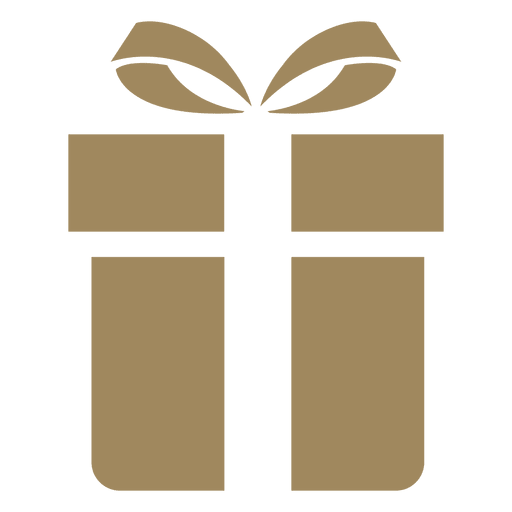
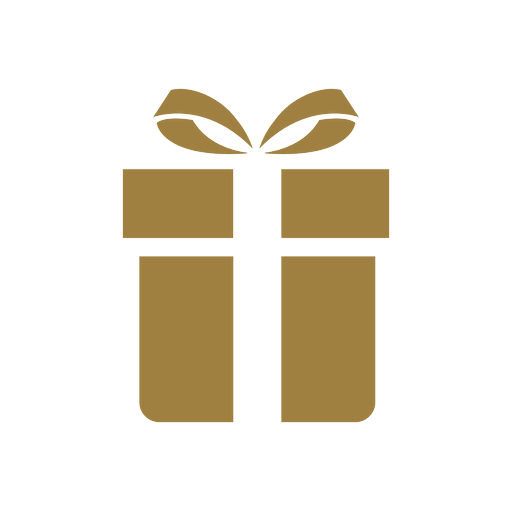
fix(plantillas): incongruencias — anillo, recepción, dress code, sidebar, galería, countdown
- anillo: corrige src roto ./img/Anillo.png -> ./img/anillo.png (faltaba la imagen y rompía el contenedor CEREMONIA)
- recepción: reemplaza fondo.jpg (patrón) por foto real de jardín Unsplash
- dress code: cambia dresscode.png por imagen elegante Unsplash
- sidebar: iconos regenariados a silueta dorada 512x512 uniformes (mismo color y tamaño); cámara sidebar usa nav-camera.png (la sección álbum conserva camera.png verde)
- galería: reemplaza foto muerta (404) photo-1520854221256 en clasica y romantica
- countdown: centrado fijo en hero, sin wrap (flex nowrap)
- elimina archivos huérfanos dresscode.png y Anillo.jpg

diff --git a/Plantillas/boda-romantica/index.html b/Plantillas/boda-romantica/index.html
@@ -66,7 +66,7 @@
 
         <div class="details">
             <div class="box">
-                <img src="./img/Anillo.png" alt="Anillo de boda" loading="lazy" decoding="async">
+                <img src="./img/anillo.png" alt="Anillo de boda" loading="lazy" decoding="async">
                 <h2>CEREMONIA</h2>
                 <p>Templo de Santa Rosa</p>
                 <p>Te esperamos el</p>
@@ -78,14 +78,14 @@
                 <button class="ubication" onclick="window.open('https://maps.google.com/?q=Templo de Santa Rosa')" aria-label="Ver ubicación ceremonia">Ver Ubicación</button>
             </div>
             <div class="box">
-                <img src="./img/fondo.jpg" alt="Recepción" style="width:100%; height:180px; object-fit:cover; border-radius:12px;" loading="lazy" decoding="async">
+                <img src="https://images.unsplash.com/photo-1519167758481-83f550bb49b3?w=800&q=80&auto=format&fit=crop" alt="Recepción — jardín del evento" style="width:100%; height:180px; object-fit:cover; border-radius:12px;" loading="lazy" decoding="async">
                 <h2>RECEPCIÓN</h2>
                 <p>Villa Rosé</p>
                 <p>Blvd. Rosal 321, La Paz, 72160 Puebla, Pue.</p>
                 <button class="ubication" onclick="window.open('https://maps.google.com/?q=Villa Rosé')" aria-label="Ver ubicación recepción">Ver Ubicación</button>
             </div>
             <div class="box">
-                <img src="./img/dresscode.png" alt="Dress Code" loading="lazy" decoding="async">
+                <img src="https://images.unsplash.com/photo-1507679799987-c73779587ccf?w=800&q=80&auto=format&fit=crop" alt="Dress Code — formal elegante" loading="lazy" decoding="async">
                 <h2 class="dress-title">DRESS CODE</h2>
                 <p>Formal | Etiqueta</p>
                 <p>Favor de vestir preferentemente a la paleta de colores</p>
@@ -127,7 +127,7 @@
             <div class="box-img"><img src="https://images.unsplash.com/photo-1522673607200-164d1b6ce486?w=800&q=80&auto=format&fit=crop" alt="Galería Sofía & Mateo — foto 2" loading="lazy" decoding="async"></div>
             <div class="box-img"><img src="https://images.unsplash.com/photo-1519741497674-611481863552?w=800&q=80&auto=format&fit=crop" alt="Galería Sofía & Mateo — foto 3" loading="lazy" decoding="async"></div>
             <div class="box-img"><img src="https://images.unsplash.com/photo-1492684223066-81342ee5ff30?w=800&q=80&auto=format&fit=crop" alt="Galería Sofía & Mateo — foto 4" loading="lazy" decoding="async"></div>
-            <div class="box-img"><img src="https://images.unsplash.com/photo-1520854221256-589c14166900?w=800&q=80&auto=format&fit=crop" alt="Galería Sofía & Mateo — foto 5" loading="lazy" decoding="async"></div>
+            <div class="box-img"><img src="https://images.unsplash.com/photo-1519225421980-715cb0215aed?w=800&q=80&auto=format&fit=crop" alt="Galería Sofía & Mateo — foto 5" loading="lazy" decoding="async"></div>
             <div class="box-img"><img src="https://images.unsplash.com/photo-1474552226712-ac0f0961a954?w=800&q=80&auto=format&fit=crop" alt="Galería Sofía & Mateo — foto 6" loading="lazy" decoding="async"></div>
             <div class="box-img"><img src="https://images.unsplash.com/photo-1529634597503-139d3726fed5?w=800&q=80&auto=format&fit=crop" alt="Galería Sofía & Mateo — foto 7" loading="lazy" decoding="async"></div>
         </div>
@@ -219,7 +219,7 @@
     <ul>
         <li aria-label="Itinerario"><a href="#itinerario" aria-label="Itinerario"><img src="./img/itinerario.png" alt="Itinerario"></a></li>
         <li aria-label="Galería"><a href="#galeria" aria-label="Galería"><img src="./img/galeria.png" alt="Galería"></a></li>
-        <li aria-label="Fotos"><a href="#fotos" aria-label="Fotos"><img src="./img/camera.png" alt="Fotos"></a></li>
+        <li aria-label="Fotos"><a href="#fotos" aria-label="Fotos"><img src="./img/nav-camera.png" alt="Fotos"></a></li>
         <li aria-label="Tu Pase QR"><a href="#qr-demo" aria-label="Tu Pase QR"><img src="./img/ticket.png" alt="QR"></a></li>
         <li aria-label="Regalos"><a href="#regalos" aria-label="Regalos"><img src="./img/regalo_crono.png" alt="Regalos"></a></li>
     </ul>

diff --git a/Plantillas/boda-clasica/index.html b/Plantillas/boda-clasica/index.html
@@ -66,7 +66,7 @@
 
         <div class="details">
             <div class="box">
-                <img src="./img/Anillo.png" alt="Anillo de boda" loading="lazy" decoding="async">
+                <img src="./img/anillo.png" alt="Anillo de boda" loading="lazy" decoding="async">
                 <h2>CEREMONIA</h2>
                 <p>Parroquia del Sagrado Corazón</p>
                 <p>Te esperamos el</p>
@@ -78,14 +78,14 @@
                 <button class="ubication" onclick="window.open('https://maps.google.com/?q=Parroquia del Sagrado Corazón')" aria-label="Ver ubicación ceremonia">Ver Ubicación</button>
             </div>
             <div class="box">
-                <img src="./img/fondo.jpg" alt="Recepción" style="width:100%; height:180px; object-fit:cover; border-radius:12px;" loading="lazy" decoding="async">
+                <img src="https://images.unsplash.com/photo-1519167758481-83f550bb49b3?w=800&q=80&auto=format&fit=crop" alt="Recepción — jardín del evento" style="width:100%; height:180px; object-fit:cover; border-radius:12px;" loading="lazy" decoding="async">
                 <h2>RECEPCIÓN</h2>
                 <p>Jardín Los Olivos</p>
                 <p>Camino Real 45, El Marques, 76240 Querétaro, Qro.</p>
                 <button class="ubication" onclick="window.open('https://maps.google.com/?q=Jardín Los Olivos')" aria-label="Ver ubicación recepción">Ver Ubicación</button>
             </div>
             <div class="box">
-                <img src="./img/dresscode.png" alt="Dress Code" loading="lazy" decoding="async">
+                <img src="https://images.unsplash.com/photo-1507679799987-c73779587ccf?w=800&q=80&auto=format&fit=crop" alt="Dress Code — formal elegante" loading="lazy" decoding="async">
                 <h2 class="dress-title">DRESS CODE</h2>
                 <p>Formal | Etiqueta</p>
                 <p>Favor de vestir preferentemente a la paleta de colores</p>
@@ -123,7 +123,7 @@
         <h2 class="mainText">Nosotros</h2>
         <p style="text-align:center; color:var(--color-muted); font-family:'DM Sans',sans-serif; font-size:0.9rem; margin-bottom:16px;">Fotos de ejemplo — reemplaza con tus fotos reales</p>
         <div class="container-img">
-            <div class="box-img"><img src="https://images.unsplash.com/photo-1520854221256-589c14166900?w=800&q=80&auto=format&fit=crop" alt="Galería Laura & Daniel — foto 1" loading="lazy" decoding="async"></div>
+            <div class="box-img"><img src="https://images.unsplash.com/photo-1519671482749-fd09be7ccebf?w=800&q=80&auto=format&fit=crop" alt="Galería Laura & Daniel — foto 1" loading="lazy" decoding="async"></div>
             <div class="box-img"><img src="https://images.unsplash.com/photo-1519225421980-715cb0215aed?w=800&q=80&auto=format&fit=crop" alt="Galería Laura & Daniel — foto 2" loading="lazy" decoding="async"></div>
             <div class="box-img"><img src="https://images.unsplash.com/photo-1460978812857-470ed1c77af0?w=800&q=80&auto=format&fit=crop" alt="Galería Laura & Daniel — foto 3" loading="lazy" decoding="async"></div>
             <div class="box-img"><img src="https://images.unsplash.com/photo-1441974231531-c6227db76b6e?w=800&q=80&auto=format&fit=crop" alt="Galería Laura & Daniel — foto 4" loading="lazy" decoding="async"></div>
@@ -219,7 +219,7 @@
     <ul>
         <li aria-label="Itinerario"><a href="#itinerario" aria-label="Itinerario"><img src="./img/itinerario.png" alt="Itinerario"></a></li>
         <li aria-label="Galería"><a href="#galeria" aria-label="Galería"><img src="./img/galeria.png" alt="Galería"></a></li>
-        <li aria-label="Fotos"><a href="#fotos" aria-label="Fotos"><img src="./img/camera.png" alt="Fotos"></a></li>
+        <li aria-label="Fotos"><a href="#fotos" aria-label="Fotos"><img src="./img/nav-camera.png" alt="Fotos"></a></li>
         <li aria-label="Tu Pase QR"><a href="#qr-demo" aria-label="Tu Pase QR"><img src="./img/ticket.png" alt="QR"></a></li>
         <li aria-label="Regalos"><a href="#regalos" aria-label="Regalos"><img src="./img/regalo_crono.png" alt="Regalos"></a></li>
     </ul>

diff --git a/Plantillas/boda-dorada/index.html b/Plantillas/boda-dorada/index.html
@@ -66,7 +66,7 @@
 
         <div class="details">
             <div class="box">
-                <img src="./img/Anillo.png" alt="Anillo de boda" loading="lazy" decoding="async">
+                <img src="./img/anillo.png" alt="Anillo de boda" loading="lazy" decoding="async">
                 <h2>CEREMONIA</h2>
                 <p>Capilla Hacienda del Sol</p>
                 <p>Te esperamos el</p>
@@ -78,14 +78,14 @@
                 <button class="ubication" onclick="window.open('https://maps.google.com/?q=Capilla Hacienda del Sol')" aria-label="Ver ubicación ceremonia">Ver Ubicación</button>
             </div>
             <div class="box">
-                <img src="./img/fondo.jpg" alt="Recepción" style="width:100%; height:180px; object-fit:cover; border-radius:12px;" loading="lazy" decoding="async">
+                <img src="https://images.unsplash.com/photo-1519167758481-83f550bb49b3?w=800&q=80&auto=format&fit=crop" alt="Recepción — jardín del evento" style="width:100%; height:180px; object-fit:cover; border-radius:12px;" loading="lazy" decoding="async">
                 <h2>RECEPCIÓN</h2>
                 <p>Hacienda del Sol</p>
                 <p>Av. Dorada 456, Viñedos, 37710 San Miguel de Allende, Gto.</p>
                 <button class="ubication" onclick="window.open('https://maps.google.com/?q=Hacienda del Sol')" aria-label="Ver ubicación recepción">Ver Ubicación</button>
             </div>
             <div class="box">
-                <img src="./img/dresscode.png" alt="Dress Code" loading="lazy" decoding="async">
+                <img src="https://images.unsplash.com/photo-1507679799987-c73779587ccf?w=800&q=80&auto=format&fit=crop" alt="Dress Code — formal elegante" loading="lazy" decoding="async">
                 <h2 class="dress-title">DRESS CODE</h2>
                 <p>Formal | Etiqueta</p>
                 <p>Favor de vestir preferentemente a la paleta de colores</p>
@@ -219,7 +219,7 @@
     <ul>
         <li aria-label="Itinerario"><a href="#itinerario" aria-label="Itinerario"><img src="./img/itinerario.png" alt="Itinerario"></a></li>
         <li aria-label="Galería"><a href="#galeria" aria-label="Galería"><img src="./img/galeria.png" alt="Galería"></a></li>
-        <li aria-label="Fotos"><a href="#fotos" aria-label="Fotos"><img src="./img/camera.png" alt="Fotos"></a></li>
+        <li aria-label="Fotos"><a href="#fotos" aria-label="Fotos"><img src="./img/nav-camera.png" alt="Fotos"></a></li>
         <li aria-label="Tu Pase QR"><a href="#qr-demo" aria-label="Tu Pase QR"><img src="./img/ticket.png" alt="QR"></a></li>
         <li aria-label="Regalos"><a href="#regalos" aria-label="Regalos"><img src="./img/regalo_crono.png" alt="Regalos"></a></li>
     </ul>

diff --git a/Plantillas/boda-clasica/css/index.css b/Plantillas/boda-clasica/css/index.css
@@ -2269,3 +2269,21 @@ body { font-size: 17.5px; }
   }
 }
 
+
+/* ======================================================
+   FIX COUNTDOWN — centrado y sin desbordes en el hero
+====================================================== */
+.overlay-content {
+  justify-content: center !important;
+  gap: 12px;
+}
+.countdown-container {
+  display: flex !important;
+  flex-wrap: nowrap !important;
+  justify-content: center !important;
+  align-items: center !important;
+  margin: 0 auto !important;
+}
+.countdown-unit span {
+  white-space: nowrap;
+}

diff --git a/Plantillas/boda-romantica/css/index.css b/Plantillas/boda-romantica/css/index.css
@@ -2272,3 +2272,21 @@ body { font-size: 17.5px; }
   }
 }
 
+
+/* ======================================================
+   FIX COUNTDOWN — centrado y sin desbordes en el hero
+====================================================== */
+.overlay-content {
+  justify-content: center !important;
+  gap: 12px;
+}
+.countdown-container {
+  display: flex !important;
+  flex-wrap: nowrap !important;
+  justify-content: center !important;
+  align-items: center !important;
+  margin: 0 auto !important;
+}
+.countdown-unit span {
+  white-space: nowrap;
+}

diff --git a/Plantillas/boda-dorada/css/index.css b/Plantillas/boda-dorada/css/index.css
@@ -2271,3 +2271,21 @@ body { font-size: 17px; }
   }
 }
 
+
+/* ======================================================
+   FIX COUNTDOWN — centrado y sin desbordes en el hero
+====================================================== */
+.overlay-content {
+  justify-content: center !important;
+  gap: 12px;
+}
+.countdown-container {
+  display: flex !important;
+  flex-wrap: nowrap !important;
+  justify-content: center !important;
+  align-items: center !important;
+  margin: 0 auto !important;
+}
+.countdown-unit span {
+  white-space: nowrap;
+}
